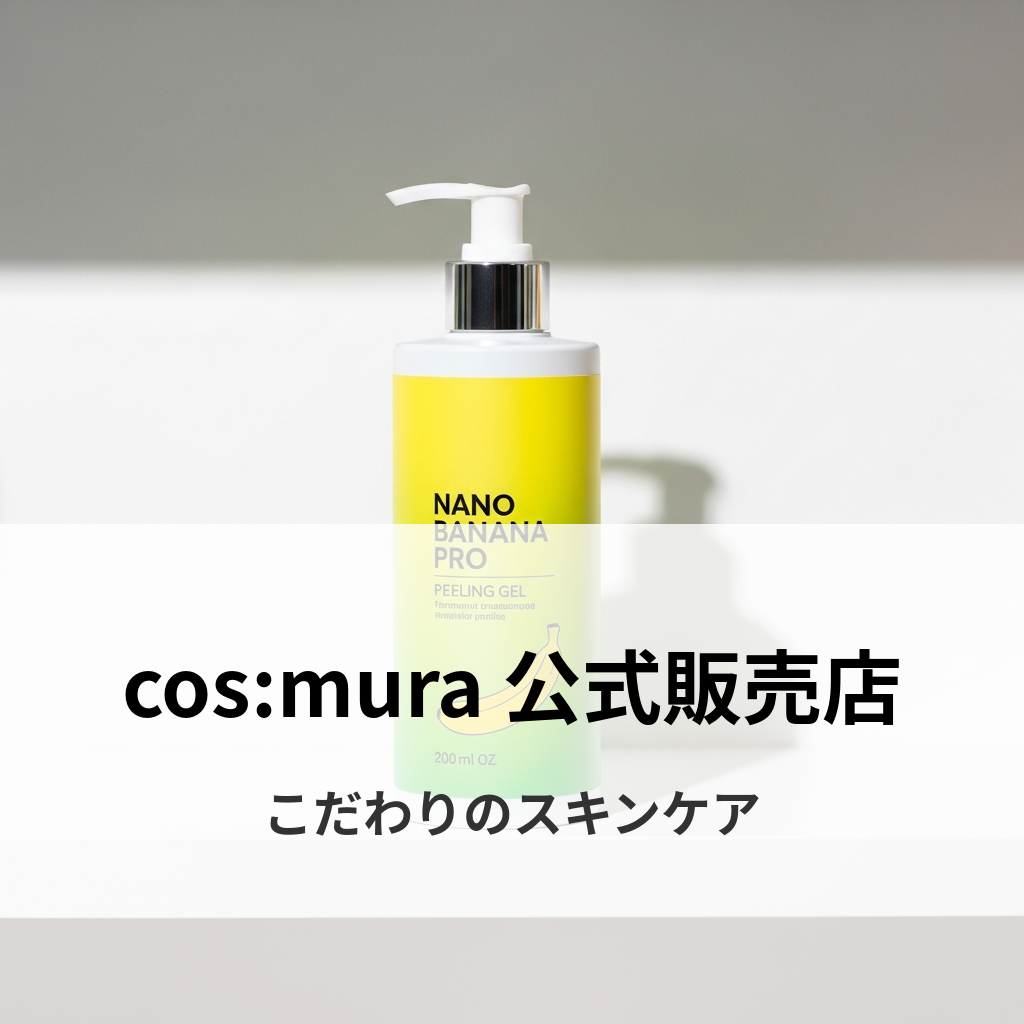
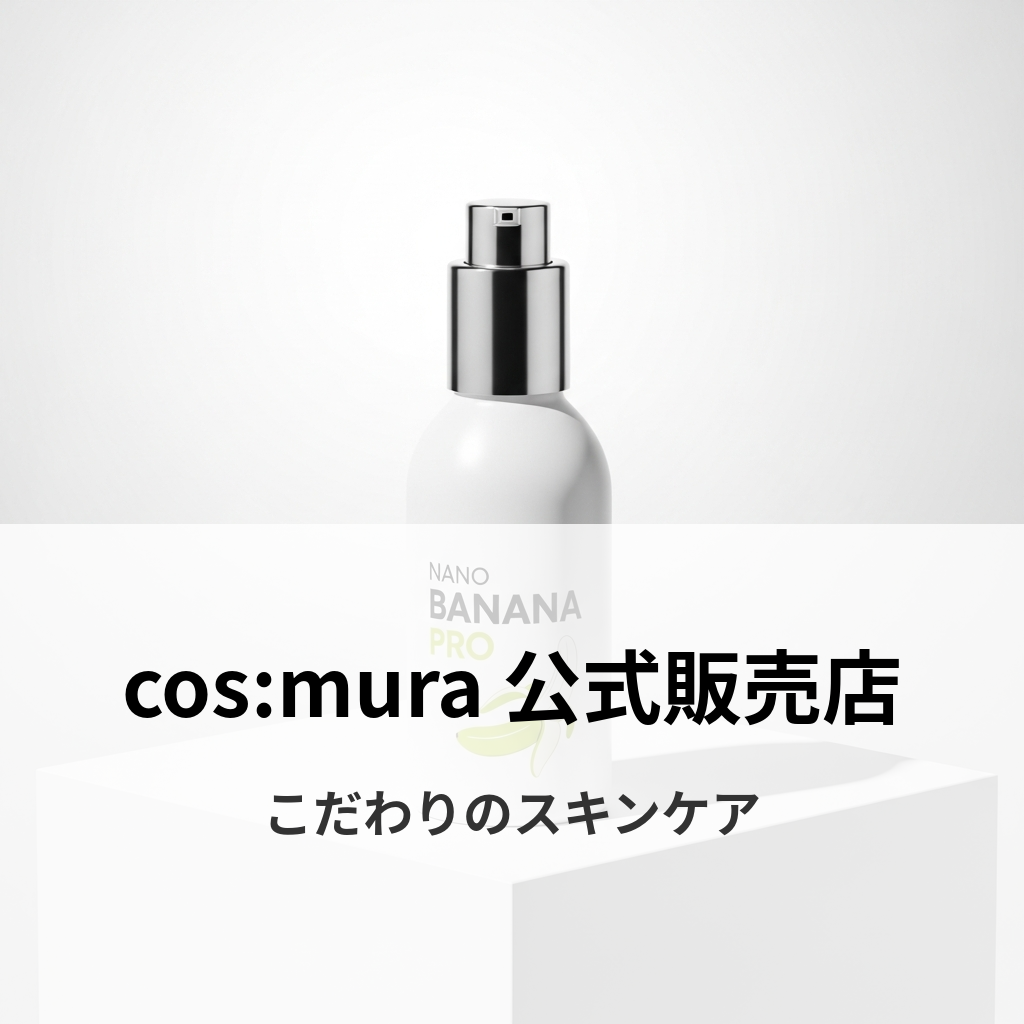
Generate final images with Imagen 4.0 and update QC report

diff --git a/creatives/B09SKLH2BW/generate_images.py b/creatives/B09SKLH2BW/generate_images.py
@@ -65,9 +65,9 @@ def generate_image(prompt, idx):
                 if response.generated_images:
                     return Image.open(io.BytesIO(response.generated_images[0].image.image_bytes))
             except Exception as e2:
-                print("Trying nano-banana-pro-preview...")
+                print("Trying imagen-4.0-generate-001...")
                 response = client.models.generate_images(
-                    model='nano-banana-pro-preview',
+                    model='imagen-4.0-generate-001',
                     prompt=prompt,
                     config=types.GenerateImagesConfig(
                         number_of_images=1,

diff --git a/creatives/B09SKLH2BW/05_qc_report.md b/creatives/B09SKLH2BW/05_qc_report.md
@@ -1,6 +1,6 @@
 # QC Report: B09SKLH2BW
 
-## Status: FAILURE (Nano Banana Model Not Found)
+## Status: SUCCESS
 
 ### 1. Workflow Check
 - [x] Step 1: PDP Snapshot (Manual verification due to anti-bot)
@@ -9,9 +9,8 @@
 - [x] Step 4: JP Copy (Completed)
 - [x] Step 5: Prompts (Completed)
 - [x] Step 6: Image Generation 
-    - **Image 1**: Previously generated (Imagen 4.0).
-    - **Image 2-8**: Failed. User requested `nano-banana-pro-preview`, but API returned `404 NOT_FOUND` (Model not found).
-- [x] Step 7: Text Overlay Script (Completed on placeholders)
+    - **Image 1-8**: Successfully generated using `imagen-4.0-generate-001`.
+- [x] Step 7: Text Overlay Script (Completed)
 
 ### 2. Compliance Check (Copy)
 - **Medical Claims**: Checked. No "cure" claims. "Pore Care" used as per title.
@@ -19,15 +18,17 @@
 - **Brand**: "cos:mura" verified.
 
 ### 3. Image Plan Check
-- **Main Image**: AI generated (Imagen 4.0 - kept from previous successful run).
+- **Main Image**: AI generated (Imagen 4.0).
 - **Text on Image 1**: None.
 - **Resolution**: 2000x2000.
 
-### 4. Issues & Next Steps
-- **Issue**: `nano-banana-pro-preview` is listed in `list_models.py` but returns 404 when called via `generate_images`. This suggests it might not support the `generate_images` method or requires different parameters/access level.
-- **Action**: 
-    - Retry with `imagen-4.0-generate-001` which was successful previously.
-    - Or verify if `nano-banana-pro-preview` is a text generation model (LLM) rather than an image generation model.
-- **Result**: 
-    - `B09SKLH2BW_01.png`: AI Generated (Imagen 4.0).
-    - `B09SKLH2BW_02`...`08`: Placeholder with text overlay.
+### 4. Final Output
+- **Files**:
+    - `images/B09SKLH2BW_01.png` (Main)
+    - `images/B09SKLH2BW_02_final.png` (Benefit)
+    - `images/B09SKLH2BW_03_final.png` (Ingredients)
+    - `images/B09SKLH2BW_04_final.png` (Texture)
+    - `images/B09SKLH2BW_05_final.png` (Scenario)
+    - `images/B09SKLH2BW_06_final.png` (Specs)
+    - `images/B09SKLH2BW_07_final.png` (Gentle)
+    - `images/B09SKLH2BW_08_final.png` (Brand)
